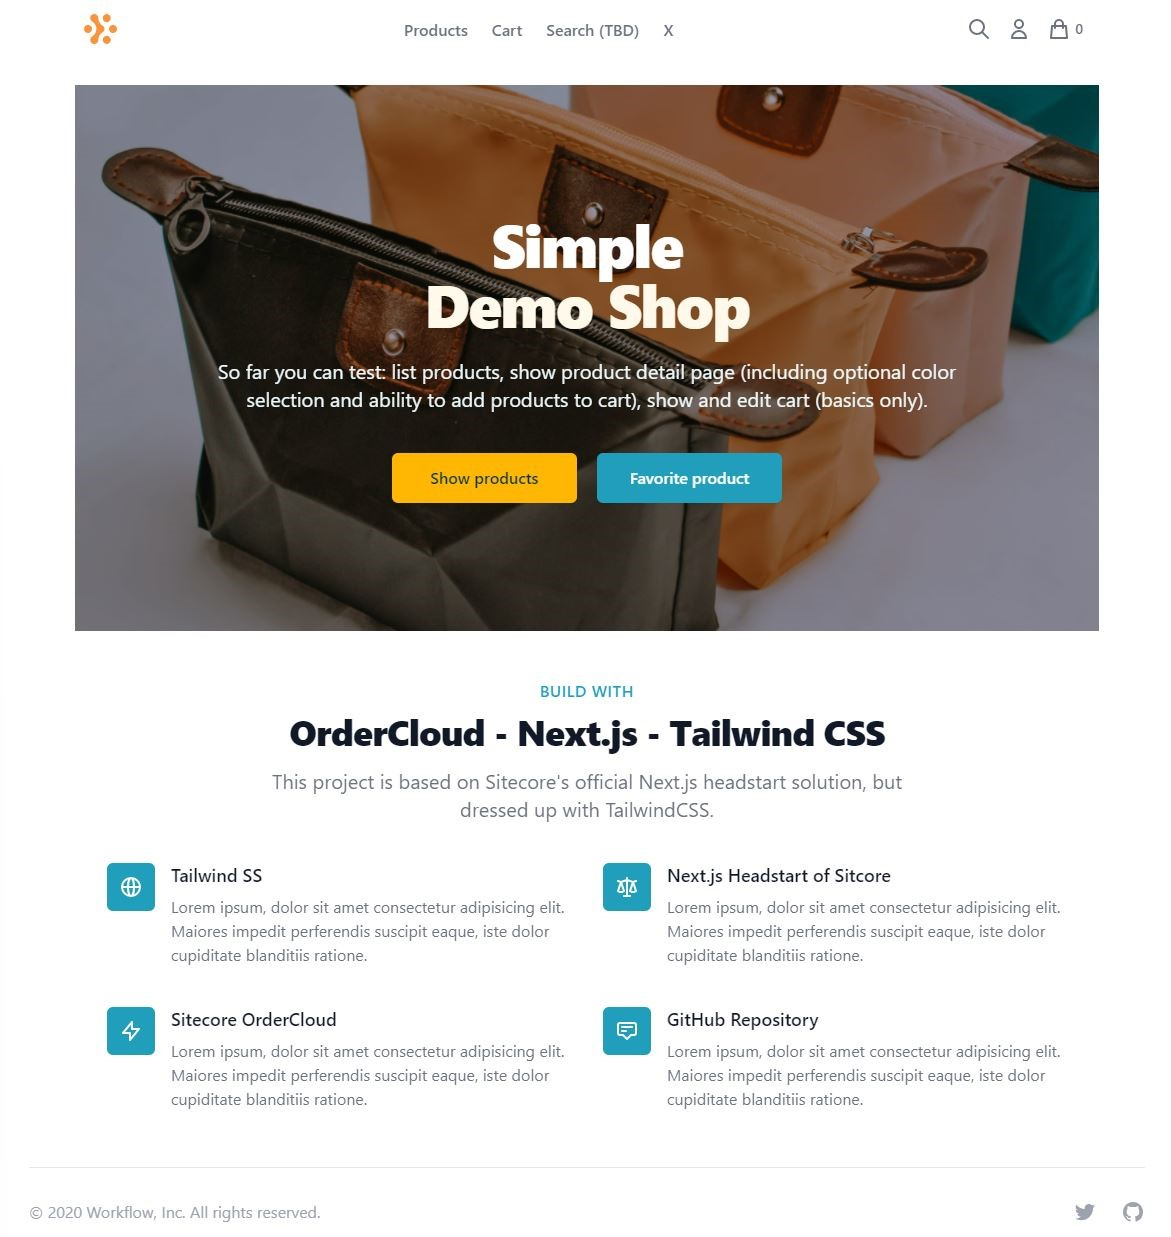
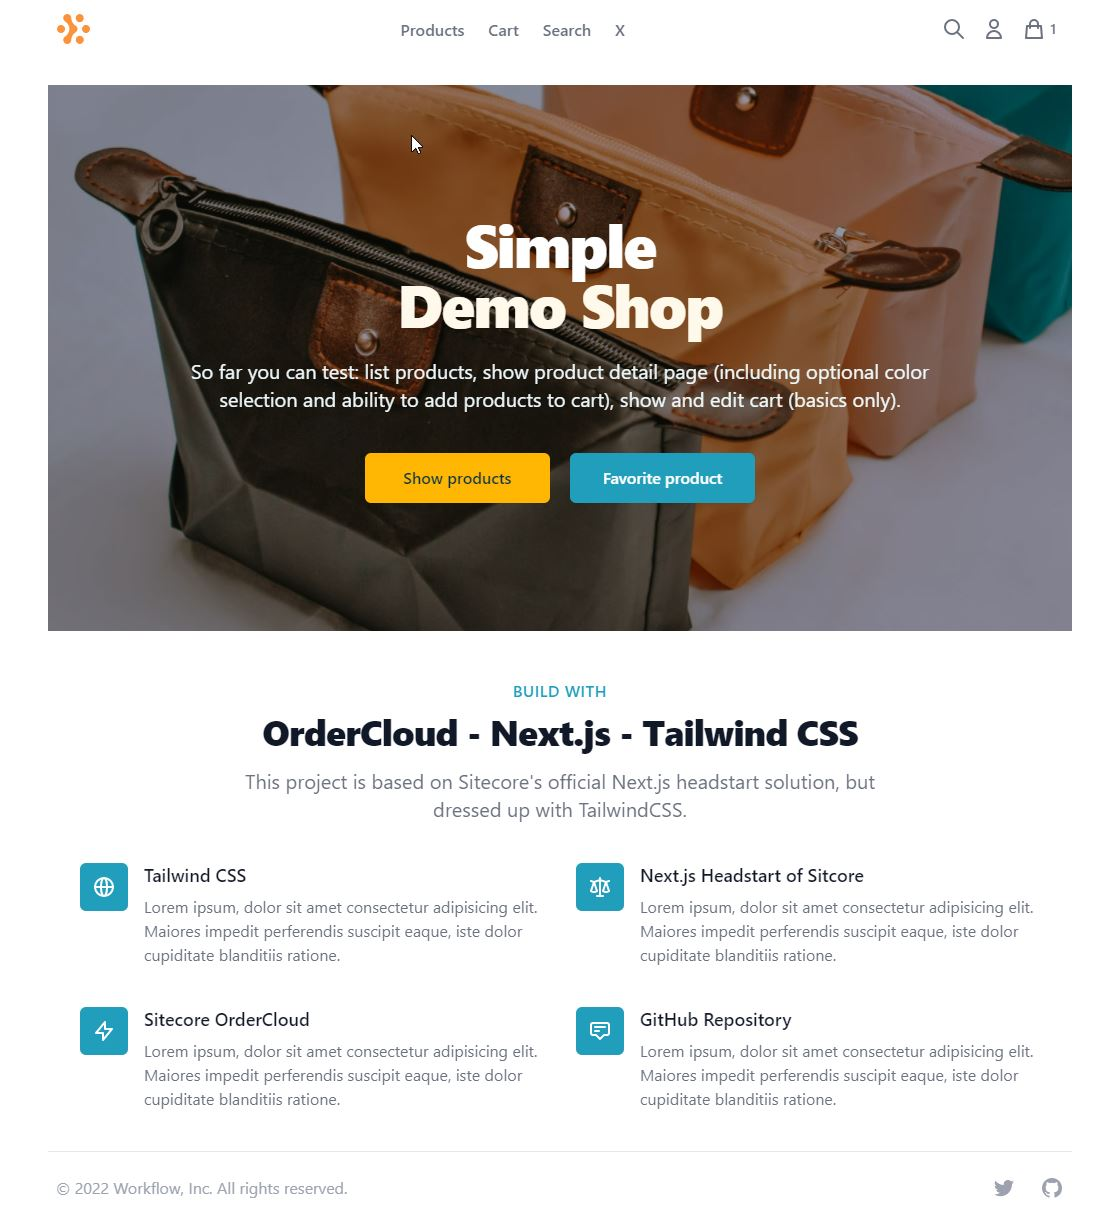
Fixed some typos

diff --git a/pages/index.tsx b/pages/index.tsx
@@ -11,7 +11,7 @@ import OcHeroCTA from '../ordercloud/components/content/OcHeroCTA'
 const Home: FunctionComponent = () => {
   const features = [
     {
-      name: 'Tailwind SS',
+      name: 'Tailwind CSS',
       description:
         'Lorem ipsum, dolor sit amet consectetur adipisicing elit. Maiores impedit perferendis suscipit eaque, iste dolor cupiditate blanditiis ratione.',
       icon: GlobeAltIcon,

diff --git a/README.md b/README.md
@@ -1,6 +1,5 @@
 # Introduction
-In general for me the [Sitecore's Next.js headstart solution](https://github.com/ordercloud-api/headstart) fits perfectly for a quick start after the [Getting Started journey](https://ordercloud.io/learn/getting-started/welcome-to-ordercloud) of OrderCloud. In my opinion, the barrier to entry is significantly lower than that of the [official headstart solution](https://github.com/ordercloud-api/headstart). Especially since you don't have to worry about Azure infrastructure, initial seeding and middleware right from the start.
-
+In general for me the [Sitecore's Next.js headstart solution](https://github.com/ordercloud-api/headstart) fits perfectly for a quick start after the [Getting Started journey](https://ordercloud.io/learn/getting-started/welcome-to-ordercloud) of OrderCloud. In my opinion, the barrier to entry is significantly lower than that of the [official headstart solution](https://github.com/ordercloud-api/headstart). Especially since you don't have to worry about Azure infrastructure, initial seeding and middleware right from the beginning - and it's built on React ;)
 
 
 # Why this fork?
@@ -8,9 +7,8 @@ This solution is based on Sitecore's Next.js headstart solution, but dressed up 
 
 The purpose of this fork is to have more fun working with Sitecore's Next.js solution:
 * It's prettier.
-* A few small bugs were fixed.
+* A few small bugs are fixed.
 * You can customize some basics (see below).
-* And it's built on React ;)
 
 But I wouldn't consider this solution as a headstart solution (neither is the original by the way), it's more a playground for small demo projects or proof of concepts.
 
